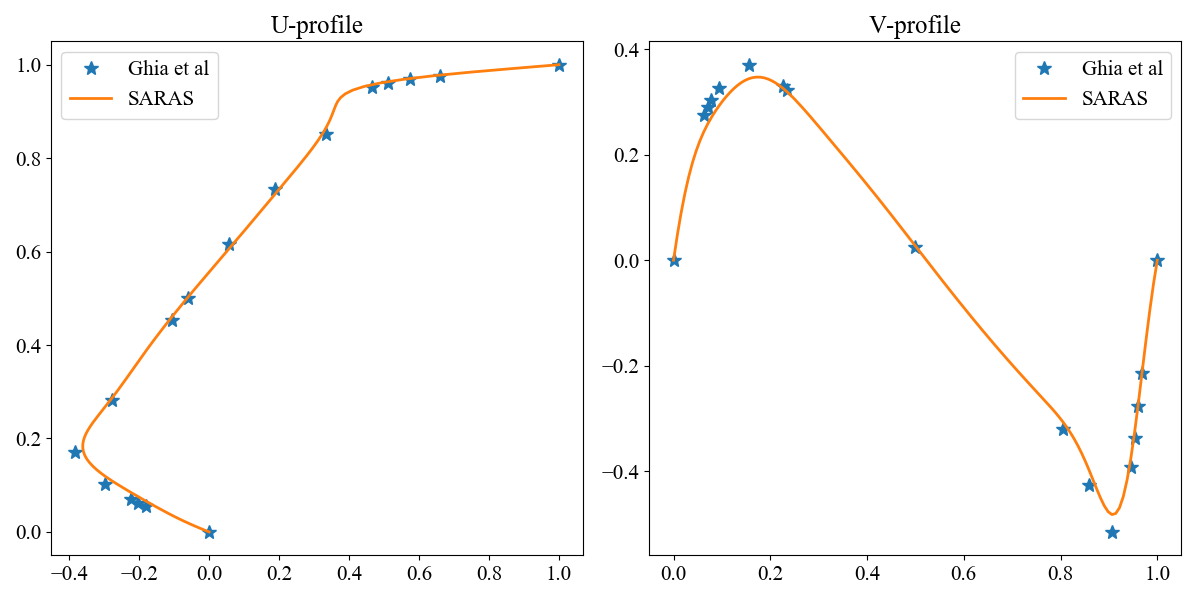
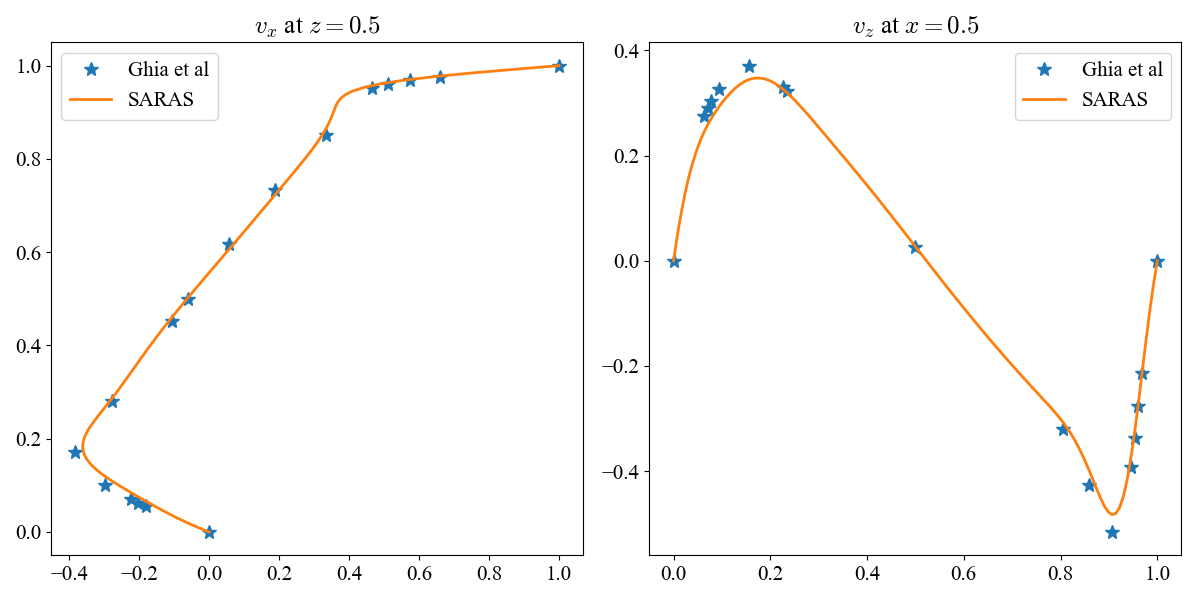
Corrected titles in Figure 3. Minor corrections to captions

diff --git a/paper.md b/paper.md
@@ -120,9 +120,10 @@ $$
 The solver also supports adaptive time-stepping, where the Courant-Friedrichs-Lewy (CFL) condition [@Courant:1928CFL] is used to dynamically compute the appropriate time-step
 from the velocity field.
 
-![For the flow simulation of decaying turbulence on a $257^3$ grid,
-  vector plots of the velocity field and density plots of the vertical vorticity field ($\omega_z$) computed at the horizontal mid plane at $z=1/2$:
-  for the data  from (a, c) ``TARANG``,  and (b, d) ``SARAS`` at $t=1$ and $t=3$. \label{figure2}](figure2.png)
+![For the simulation of decaying turbulence on a $257^3$ grid, vector plots of the velocity field,
+  and density plots of the vertical component of vorticity ($\omega_z$) computed at the horizontal mid-plane:
+  for the data from ``TARANG``(a, c), and ``SARAS``(b, d) at $t = 1$ (top row) and $t = 3$ (bottom row).
+  \label{figure2}](figure2.png)
 
 # Results
 We validate our code using two very well-known problems.
@@ -153,9 +154,11 @@ Besides, the flow profiles are also similar, as is evident from the density plot
 Here, the vertical component of vorticity, $\omega_z$, on the horizontal mid-plane is plotted at $t=1$ and $t=3$.
 In Figure \ref{figure1}(b), we plot the energy spectrum at $t=1$.
 The plot exhibits nearly similar multiscale evolution of the flow fields.
-Interestingly, in both the results the energy spectrum in the inertial range is closer to the $k^{-5/3}$ prediction of Kolmogorov [@Kolmogorov:DANS1941Dissipation; @Kolmogorov:DANS1941Structure]. 
+Interestingly, in both the results the energy spectrum in the inertial range is closer to the $k^{-5/3}$
+prediction of Kolmogorov [@Kolmogorov:DANS1941Dissipation; @Kolmogorov:DANS1941Structure]. 
 
-![Results from the simulation of lid-driven cavity on a $129^2$ grid with ``SARAS`` (orange lines), along with the data from [@Ghia:JCP1982] (blue stars):
+![Velocity profiles from the simulation of lid-driven cavity on a $129^2$ grid with ``SARAS`` (orange lines),
+  plotted along with the data from [@Ghia:JCP1982] (blue stars):
   (a) The vertical profile of the x-component of velocity, $v_x$, along the line across the geometric center of the cavity
   (b) The horizontal profile of the y-component of velocity, $v_y$, along the line across the geometric center of the cavity. \label{figure3}](figure3.png)
 
